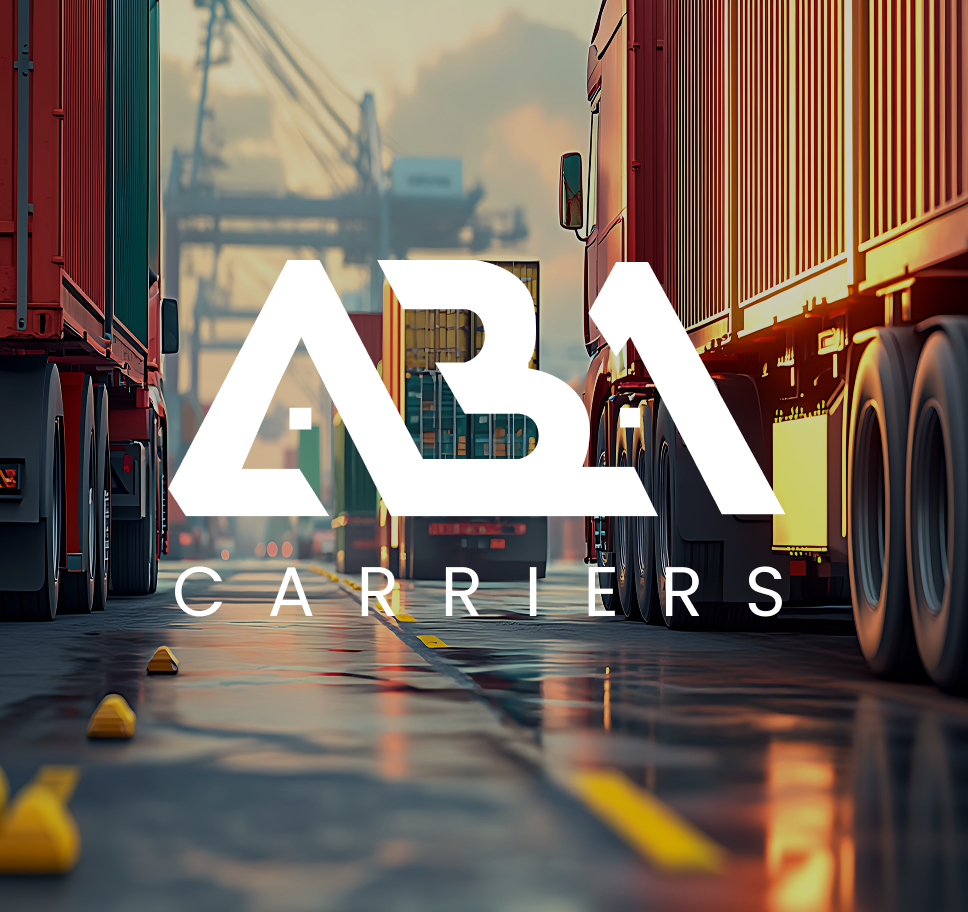
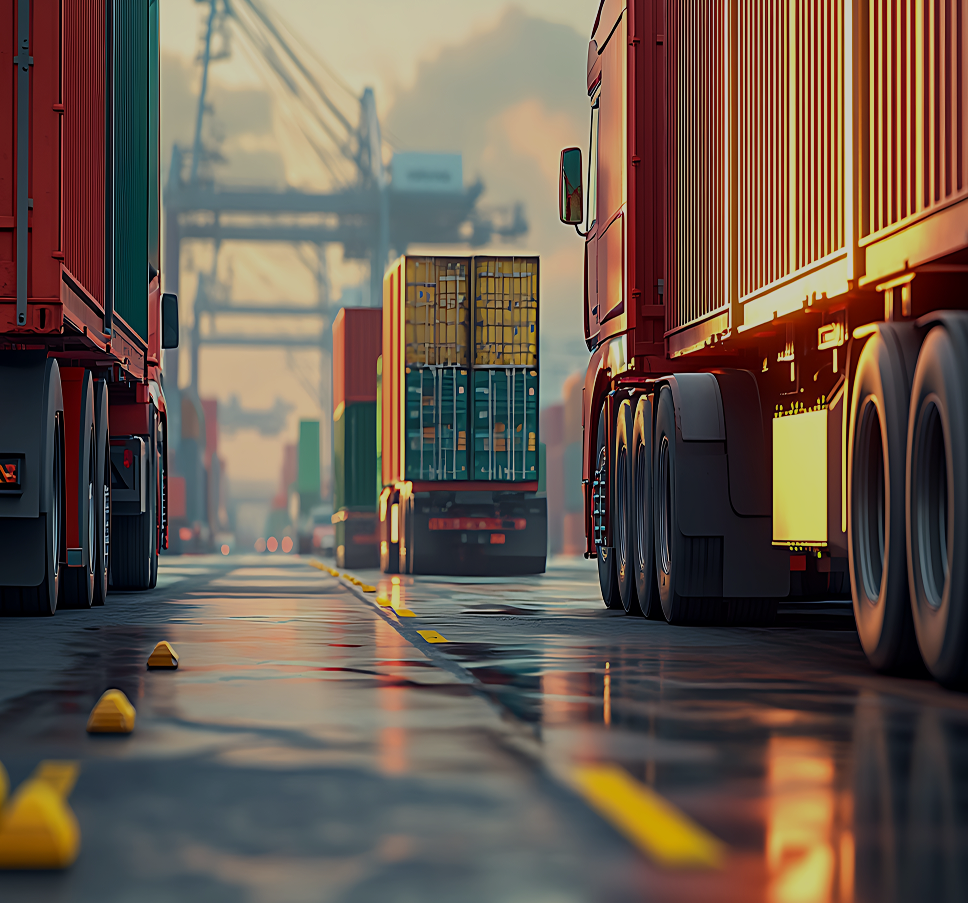
finished

diff --git a/src/app/page.tsx b/src/app/page.tsx
@@ -6,6 +6,8 @@ import styles from "@/styles/homepage.module.css";
 import Link from "next/link";
 import { TruckImages } from "@/components/ui/TruckImages";
 import { BottomGradient } from "@/components/ui/BottomGradient";
+import { ServiceSectionGsap } from "@/components/ui/ServiceSectionGsap";
+import { AboutSectionGsap } from "@/components/ui/AboutSectionGsap";
 
 export default function Home() {
   return (
@@ -75,7 +77,7 @@ export default function Home() {
           <p className="mt-5 mb-10 md:my-10 lg:my-[65px] text-lg lg:text-2xl max-w-[656px] lg:text-right">
             Looking for a trucking company that values you? At ABA, we put our
             drivers first with competitive pay, steady miles, and a supportive
-            team that treats you like family. Whether you're an owner operator
+            team that treats you like family. Whether you&apos;re an owner operator
             or a company driver we offer the opportunities, resources, and
             respect you deserve. Join us today and drive your future forward!
           </p>
@@ -120,13 +122,7 @@ export default function Home() {
             height={1000}
             alt="Section side image"
           />
-          <Image
-            src={"/images/American-Truck.png"}
-            width={1080}
-            height={834}
-            className="absolute top-[60px] md:top-[120px] -right-6 md:-right-12"
-            alt="Section side image"
-          />
+          <ServiceSectionGsap />
         </div>
       </section>
       <BottomGradient />
@@ -135,13 +131,16 @@ export default function Home() {
         className={`${styles.carriers} pb-[60px] lg:py-[125px]`}
       >
         <div className="w-full lg:absolute top-0 lg:w-1/2 h-full mb-6">
-          <Image
-            src={"/images/carriers_image.png"}
-            width={960}
-            height={1020}
-            className="h-auto sm:h-[400px] lg:h-full w-full object-cover"
-            alt="Carriers section image"
-          />
+          <div className="relative -z-10 h-full">
+            <Image
+              src={"/images/carriers_image.png"}
+              width={960}
+              height={1020}
+              className="h-auto sm:h-[400px] lg:h-full w-full object-cover"
+              alt="Carriers section image"
+            />
+            <AboutSectionGsap/>
+          </div>
         </div>
         <div className="container px-5">
           <div className="lg:w-1/2 flex flex-col items-end ml-auto pl-5">

diff --git a/src/components/ui/ServiceSectionGsap.tsx b/src/components/ui/ServiceSectionGsap.tsx
@@ -1,0 +1,44 @@
+"use client";
+
+import React, { useEffect, useRef } from "react";
+import { gsap } from "gsap";
+import { ScrollTrigger } from "gsap/ScrollTrigger";
+import Image from "next/image";
+
+gsap.registerPlugin(ScrollTrigger);
+
+export const ServiceSectionGsap = () => {
+  const imageRef = useRef<HTMLImageElement | null>(null);
+
+  useEffect(() => {
+    if (imageRef.current) {
+      gsap.fromTo(
+        imageRef.current,
+        { opacity: 1, scale: 0.2, x: 490 },
+        {
+          opacity: 1,
+          scale: 1,
+          x: 0,
+          ease: "power2.out",
+          scrollTrigger: {
+            trigger: imageRef.current,
+            start: "top 90%",
+            end: "top 30%",
+            scrub: true,
+          },
+        }
+      );
+    }
+  }, []);
+
+  return (
+    <Image
+      src="/images/American-Truck.png"
+      width={1080}
+      height={834}
+      ref={imageRef}
+      className="absolute top-[60px] md:top-[120px] -right-6 md:-right-12"
+      alt="Section truck image"
+    />
+  );
+};

diff --git a/src/components/ui/AboutSectionGsap.tsx b/src/components/ui/AboutSectionGsap.tsx
@@ -1,0 +1,40 @@
+"use client";
+
+import React, { useEffect, useRef } from "react";
+import { gsap } from "gsap";
+import Image from "next/image";
+
+export const AboutSectionGsap = () => {
+  const imageRef = useRef<HTMLImageElement | null>(null);
+
+  useEffect(() => {
+    if (imageRef.current) {
+      gsap.fromTo(
+        imageRef.current,
+        { opacity: 0, scale: 0.5 },
+        {
+          opacity: 1,
+          scale: 1,
+          ease: "power2.out",
+          ScrollTrigger: {
+            trigger: imageRef.current,
+            start: "top 90%",
+            end: "top 30%",
+            scrub: true,
+          },
+        }
+      );
+    }
+  }, []);
+
+  return (
+    <Image
+      src={"/icons/about_logo.svg"}
+      width={640}
+      height={380}
+      ref={imageRef}
+      className="w-[220px] h-auto md:w-[310px] xl:w-[640px] absolute top-[50%] left-[50%] -translate-1/2 z-20"
+      alt="Carriers section image"
+    />
+  );
+};

diff --git a/src/components/ui/TruckImages.tsx b/src/components/ui/TruckImages.tsx
@@ -10,14 +10,13 @@ gsap.registerPlugin(ScrollTrigger);
 export function TruckImages() {
   const imagesRef = useRef<(HTMLImageElement | null)[]>([]);
   const offsets = [350, 175, 0];
-  const prevOffsets = [700, 350, 175];
 
   useEffect(() => {
     imagesRef.current.forEach((img, index) => {
       if (img) {
         gsap.fromTo(
           img,
-          { opacity: 0, x: prevOffsets[index] },
+          { opacity: 1, x: 960 },
           {
             opacity: 1,
             x: offsets[index],
